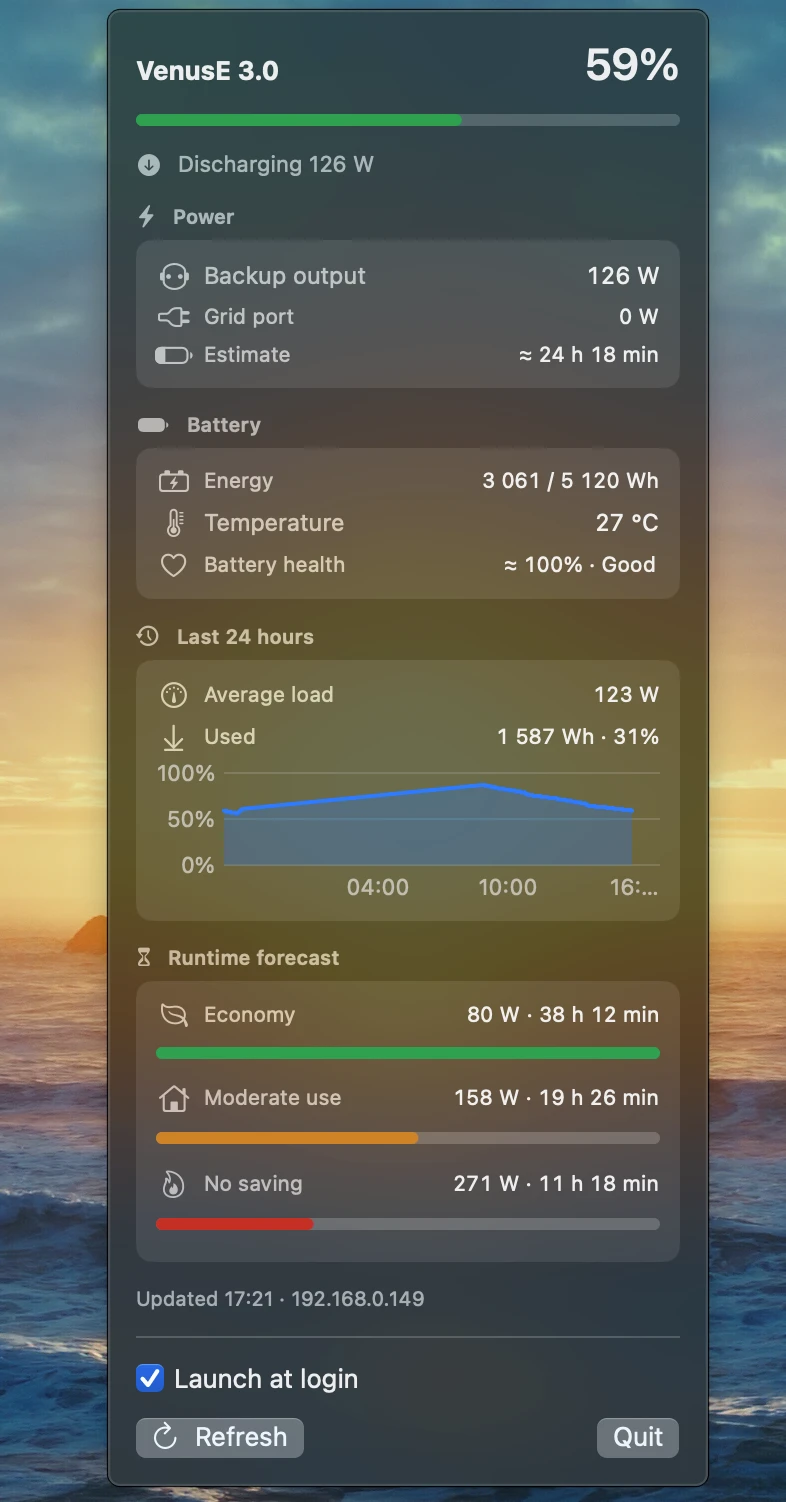
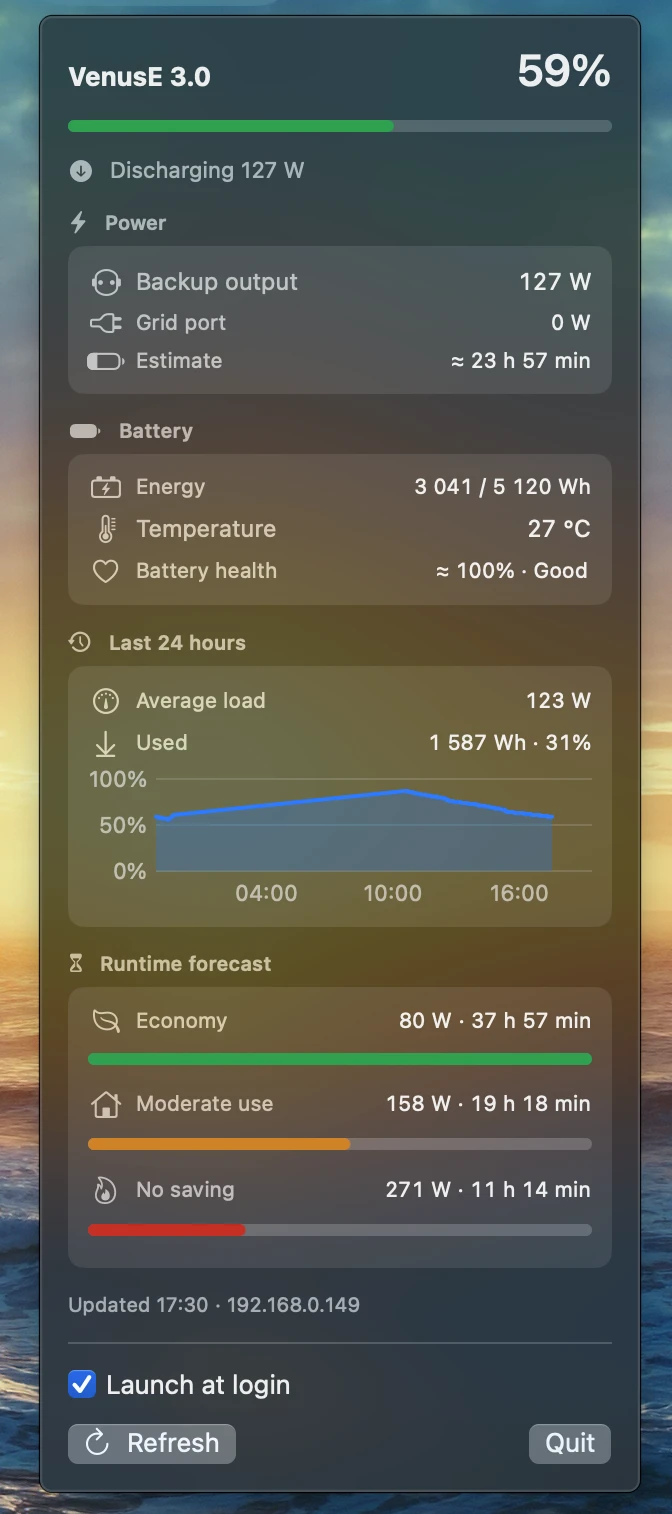
Fix the cut-off time label on the history chart
Centre the time labels under their ticks and leave room for half of the
last one. Update the screenshot.

Changed region(s): [[0.0, 0.0, 1.0, 1.0]]

diff --git a/Sources/MarstekBar/MarstekBarApp.swift b/Sources/MarstekBar/MarstekBarApp.swift
@@ -110,8 +110,8 @@ struct DetailView: View {
                                 .foregroundStyle(Color.accentColor)
                         }
                         .chartYScale(domain: 0...100)
-                        // Room on the right so the last time label is not cut off at the edge.
-                        .chartXScale(range: .plotDimension(endPadding: 14))
+                        // Room on the right for half of the last time label, which is centred on its tick.
+                        .chartXScale(range: .plotDimension(endPadding: 20))
                         .chartYAxis {
                             AxisMarks(position: .leading, values: [0, 50, 100]) { value in
                                 AxisGridLine()
@@ -120,7 +120,8 @@ struct DetailView: View {
                         }
                         .chartXAxis {
                             AxisMarks(values: .automatic(desiredCount: 3)) {
-                                AxisValueLabel(format: .dateTime.hour().minute())
+                                // Centred: a label that starts at its tick is cut off near the right edge.
+                                AxisValueLabel(format: .dateTime.hour().minute(), anchor: .top)
                             }
                         }
                         .font(.caption2)
